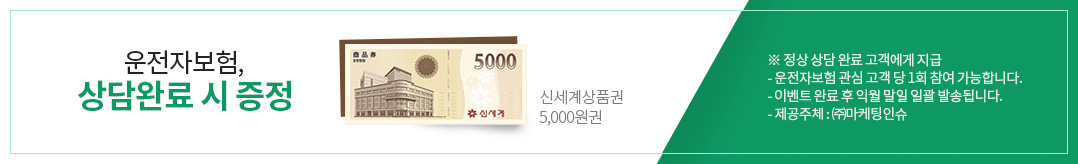
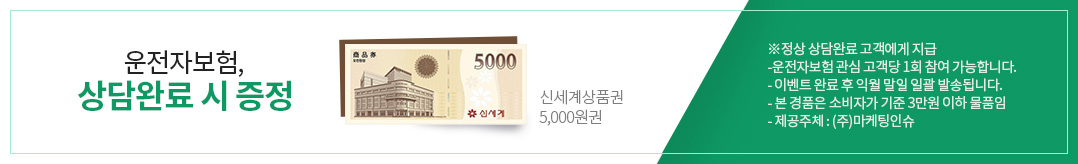
문구 수정

Changed region(s): [[0.7041, 0.2439, 0.949, 0.7927]]

diff --git a/src/views/Drive.vue b/src/views/Drive.vue
@@ -21,19 +21,15 @@
             </thead>
             <tbody>
             <tr>
-              <th rowspan="3">연만기</th>
-              <td>10년</td>
+              <th rowspan="2">연만기</th>
+              <td>3년, 5년, 10년, 15년</td>
               <td>전기납</td>
-              <td rowspan="3">만18세 ~ 80세</td>
-              <td rowspan="4">월납<br />연납</td>
-            </tr>
-            <tr>
-              <td>15년</td>
-              <td>전기납</td>
+              <td rowspan="2">만18 ~ 80세</td>
+              <td rowspan="3">월납, 연납</td>
             </tr>
             <tr>
               <td>20년</td>
-              <td>전기납, 10, 15년납</td>
+              <td>전기납, 10년납, 15년납</td>
             </tr>
             <tr>
               <th>세만기</th>
@@ -48,15 +44,7 @@
           <ul>
             <li class="list__type1">
               주1) 특별약관별로 보험기간, 가입나이 등이 상이할 수 있습니다.<br />
-              자세한 내용은 홈페이지 상품공시실의 무배당 프로미라이프 참좋은운전자보험(TM) 1908의 사업방법서 별지를 확인하여 주시기 바랍니다.
-            </li>
-            <li class="list__type1 pointAccent">
-              주2) 3년만기 자동갱신 특별약관은 3년마다 자동갱신되며, 갱신시에 적용되는 보험료는 매3년마다 재산출한 보험료를 적용합니다.<br />
-              이 경우 재산출한 보험료는 높아질 수 있습니다. (잔여 갱신시간이 3년 미만일 경우 1~2년 만기로 갱신됩니다.)<br />
-              갱신특약의 보험료 납입은 보통약관의 보험료 납입기간과관계없이 보험기간동안 전기납으로 계속 납입해야 합니다.
-            </li>
-            <li class="list__type1">
-              <em>주3) 타이어파손교체비용(수리제외,연간1회한)보장(자가용)(실손)(1년만기자동갱신) 특별약관은 1년마다 자동갱신되며 갱신시에 적용되는 보험료는 매년마다 재산출한 보험료를 적용합니다. 이경우 재산출한 보험료는 높아질 수 있습니다. 또한 (보험가입나이 + 5)세와 보통약관 종료시 보험나이 중 적은 연령까지 갱신됩니다.</em>
+              자세한 내용은 홈페이지 상품공시실의 무배당 프로미라이프 참좋은운전자보험(TM)의 사업방법서 별지를 확인하여 주시기 바랍니다.
             </li>
           </ul>
         </dd>
@@ -64,7 +52,7 @@
       <dl>
         <dt>적용이율 및 적립이율에 관한 사항</dt>
         <dd>
-          보장부분 적용이율 : 2.5%<br />
+          보장부분 적용이율 : 2.25%<br />
           적립부분 적립이율 : 이 계약의 공시이율(보장성공시이율1701)
           <p class="list__type1">최저보증이율 연복리 0.3%</p>
         </dd>
@@ -177,7 +165,7 @@
               <td>5</td>
             </tr>
             <tr>
-              <td>교통상해80%이상<br />후유장해생활자금<br />(매월7년간지급)</td>
+              <td>교통상해80%이상<br />후유장해생활자금<br />(1회한) <br class="mo-only" />(매월7년간지급)</td>
               <td class="left">보험기간중 운전자교통상해로 장해분류표상 장해지급률이 80%이상에 해당하는 장해상태가 되었을 때 1회에 한하여 가입금액을 7년 동안 매월 지급. 매월 또는 매년 지급형태의 담보의 경우 사고발생일에 확정 지급하여 드리며, 만일 사고발생일이 없을 경우에는 해당월의 마지막 영업일을 사고발생일로 함. 또한 매월 또는 매년 지급형태의 담보의 경우 보험수익자의 요청에 따라 일시지급이 가능하며, 이 경우에는 평균공시이율로 할인한 금액을 지급</td>
               <td>500</td>
             </tr>
@@ -189,21 +177,22 @@
             <tr>
               <td>자가용운전자 <br class="mo-only" />교통사고처리지원금Ⅳ<br />(실손)</td>
               <td class="left">
-                보험기간중 자가용자동차 운전중사고로 피해자(부모,배우자, 자녀 제외)에게 아래의 상해를 입힌 경우 피보험자가 형사합의금으로 지급한 금액을 피해자 1인당 가입금액내 한도로 실손보상함<br />
-                (1억원 가입기준 금액 예시)<br />
-                피해자 사망시 : 1억원(한도)<br />
+                보험기간중 자가용자동차 운전중사고로 피해자(부모,배우자, 자녀 제외)에게 아래의 상해를 입힌 경우 피보험자가 형사합의금으로 지급한 금액을 피해자 1인당 가입금액내 한도로 실손보상함<br /><br />
+                (7,000만원 가입기준 금액 예시)<br />
+                피해자 사망시 : 7,000천만원(한도)<br /><br />
+                보험기간중 일반교통사고로 피해자에게 중상해를 입혀 검찰에 의해 공소제기되거나 자동차손해배상보장법 시행령 제3조에서 정한 부상급수 1급, 2급 또는 3급에 해당하는 부상을 입힌 경우 :  7,000만원(한도)(다수가입시 비례보상)<br /><br />
                 보험기간중 중대법규위반 교통사고로 피해자가 42일(피해자 1인을 기준) 이상 치료를 요한다는 진단을 받은 경우<br />
                 > 42~69일 : 1,000만원(한도)<br />
-                > 70~139일 : 5,000만원(한도)<br />
-                > 140일이상 : 1억원(한도)<br />
-                보험기간중 일반교통사고로 피해자에게 중상해를 입혀 검찰에 의해 공소제기되거나
-                자동차손해배상보장법 시행령 제3조에서 정한 부상급수 1급, 2급 또는 3급에 해당하는 부상을 입힌 경우 : 1억원(한도)(다수가입시 비례보상)
+                > 70~139일 : 4,000만원(한도)<br />
+                > 140일이상 : 7,000만원(한도)
               </td>
               <td>7,000</td>
             </tr>
             <tr>
-              <td>자동차사고 벌금<br />(실손)</td>
-              <td class="left">보험기간중 운전중 대인사고로 벌금확정판결로 벌금을 부담한 경우 가입금액을 한도록 실손보상 (다수가입시 비례보상)</td>
+              <td>자동차사고벌금Ⅱ<br />(실손) </td>
+              <td class="left">
+                보험기간중 운전중 대인사고로 벌금확정판결로 벌금을 부담한 경우 1사고당 2천만원한도로 실손보상, 단 특정범죄 가중처벌 등에 관한 법률 제5조의13(어린이 보호구역에서 어린이치사상의 가중처벌)의 제2호에 해당되는 사고로 벌금확정판결로 벌금을 부담하는 경우 1사고당 3천만원한도로 보상(다수가입시비례보상)
+              </td>
               <td>3,000</td>
             </tr>
             <tr>
@@ -300,7 +289,7 @@
             </tr>
             <tr>
               <td>특약</td>
-              <td class="left">교통상해 80%이상 후유장해생활자금 (매월7년간지급)</td>
+              <td class="left">교통상해80%이상 후유장해생활자금 (1회한) (매월7년간지급)</td>
               <td class="right">500</td>
               <td class="right">1,330</td>
               <td class="right">1,505</td>
@@ -426,7 +415,7 @@
             </tr>
             <tr>
               <td>특약</td>
-              <td class="left">교통상해 80%이상 후유장해생활자금 (매월7년간지급)</td>
+              <td class="left">교통상해80%이상 후유장해생활자금 (1회한) (매월7년간지급)</td>
               <td class="right">500</td>
               <td class="right">515</td>
               <td class="right">620</td>
@@ -503,8 +492,8 @@
               <th rowspan="2">경과년수</th>
               <th rowspan="2">납입 보험료</th>
               <th colspan="2">최저보증이율(0.3%)</th>
-              <th colspan="2">당사 공시시율과 평균공시이율 중 낮은 이율(1.85%)</th>
-              <th colspan="2">당사공시이율 (1.85%)</th>
+              <th colspan="2">당사 공시시율과 평균공시이율 중 낮은 이율(1.75%)</th>
+              <th colspan="2">당사공시이율(1.75%)</th>
             </tr>
             <tr>
               <th>해지 환급금</th>
@@ -531,9 +520,9 @@
               <td class="right">536,400</td>
               <td class="right">67,570</td>
               <td class="right">12.6%</td>
-              <td class="right">69,670</td>
+              <td class="right">69,540</td>
               <td class="right">12.9%</td>
-              <td class="right">69,670</td>
+              <td class="right">69,540</td>
               <td class="right">12.9%</td>
             </tr>
             <tr>
@@ -541,9 +530,9 @@
               <td class="right">894,000</td>
               <td class="right">136,100</td>
               <td class="right">15.2%</td>
-              <td class="right">141,950</td>
+              <td class="right">141,570</td>
               <td class="right">15.8%</td>
-              <td class="right">141,950</td>
+              <td class="right">141,570</td>
               <td class="right">15.8%</td>
             </tr>
             <tr>
@@ -551,9 +540,9 @@
               <td class="right">1,788,000</td>
               <td class="right">334,610</td>
               <td class="right">18.7%</td>
-              <td class="right">359,200</td>
+              <td class="right">357,550</td>
               <td class="right">20.0%</td>
-              <td class="right">359,200</td>
+              <td class="right">357,550</td>
               <td class="right">20.0%</td>
             </tr>
             <tr>
@@ -561,9 +550,9 @@
               <td class="right">3,576,000</td>
               <td class="right">689,010</td>
               <td class="right">19.2%</td>
-              <td class="right">802,180</td>
+              <td class="right">794,230</td>
               <td class="right">22.4%</td>
-              <td class="right">802,180</td>
+              <td class="right">794,230</td>
               <td class="right">22.4%</td>
             </tr>
             </tbody>
@@ -576,8 +565,8 @@
             <tr>
               <th rowspan="2">경과년수<br />(납입보험료)</th>
               <th>최저보증이율(0.3%)</th>
-              <th>당사 공시시율과 평균공시이율 중 낮은 이율(1.85%)</th>
-              <th>당사공시이율 (1.85%)</th>
+              <th>당사 공시시율과 평균공시이율 중 낮은 이율(1.75%)</th>
+              <th>당사공시이율(1.75%)</th>
             </tr>
             <tr>
               <th>해지환급금<br />(환급률)</th>
@@ -593,36 +582,37 @@
             <tr>
               <td>3년<br />(536,400)</td>
               <td class="right">67,570<br />(12.6%)</td>
-              <td class="right">69,670<br />(12.9%)</td>
-              <td class="right">69,670<br />(12.9%)</td>
+              <td class="right">69,540<br />(12.9%)</td>
+              <td class="right">69,540<br />(12.9%)</td>
             </tr>
             <tr>
               <td>5년<br />(894,000)</td>
               <td class="right">136,100<br />(15.2%)</td>
-              <td class="right">141,950<br />(15.8%)</td>
-              <td class="right">141,950<br />(15.8%)</td>
+              <td class="right">141,570<br />(15.8%)</td>
+              <td class="right">141,570<br />(15.8%)</td>
             </tr>
             <tr>
               <td>10년<br />(1,788,000)</td>
               <td class="right">334,610<br />(18.7%)</td>
-              <td class="right">359,200<br />(20.0%)</td>
-              <td class="right">359,200<br />(20.0%)</td>
+              <td class="right">357,550<br />(20.0%)</td>
+              <td class="right">357,550<br />(20.0%)</td>
             </tr>
             <tr>
               <td>20년<br />(3,576,000)</td>
               <td class="right">689,010<br />(19.2%)</td>
-              <td class="right">802,180<br />(22.4%)</td>
-              <td class="right">802,180<br />(22.4%)</td>
+              <td class="right">794,230<br />(22.4%)</td>
+              <td class="right">794,230<br />(22.4%)</td>
             </tr>
             </tbody>
           </table>
         </dd>
         <dd>
           <ol class="list__type2">
-            <li class="pointAccent"><i>1)</i>20년 만기시에 환급금이 802,180원인 만기일부 환급형 입니다. 예시된 금액은 이율에 따라 변동될 수 있습니다.</li>
+            <li class="pointAccent"><i>1)</i>20년 만기시에 환급금이 794,230원인 만기일부 환급형 입니다. 예시된 금액은 이율에 따라 변동될 수 있습니다.</li>
             <li class="pointAccent"><i>2)</i>위 예상해지환급금은 적립부분 순보험료(적립부분 영업보험료에서 회사운영경비를 차감한 금액)를 해당이율로 부리, 적립한 것으로 향후 이계약의 공시이율, 계약내용변경, 보험료 실납입일자 등에 따라 변동될 수 있으며 미래의 수익을 보장하는 것은 아닙니다.
             </li>
-            <li><i>3)</i>최저보증이율(0.3%), 평균공시이율 (2019년 기준 2.5%) 및 당사 공시이율 (2020년 2월 기준 1.85%)을 기준으로 산출된 금액입니다.</li>
+            <li><i>3)</i>최저보증이율(0.3%), 평균공시이율 (2019년 기준 2.5%) 및 당사 공시이율 (2020년 4월 기준 1.75%)을 기준으로 산출된 금액입니다.
+            </li>
             <li><i>4)</i>실제 해지 및 만기시에는 금리연동형 상품의 적립부분 부리이율인 이 계약의 공시이율(보장성공시이율1701)을 적용하여 산출하므로 공시이율 변동에 따라 실제 환급금 및 환급률은 달라질 수 있습니다.</li>
             <li><i>5)</i>평균공시이율은 감독원장이 정하는 바에 따라, 전년 9월말 기준으로 직전 12개월 간 전체 보험회사 공시이율의 평균으로, 판매시점의 공시이율을 한도로 합니다.</li>
             <li><i>6)</i>공시이율은 매월 1일 회사가 정하며, 매월 1일부터 말일까지 1개월간 확정 적용합니다.</li>

diff --git a/src/components/Page.vue b/src/components/Page.vue
@@ -102,10 +102,11 @@
               <img src="@/assets/images/gift_mobile.jpg" alt="" />
             </span>
             <dl class="mo-only">
-              <dt>※ 정상 상담 완료 고객에게 지급</dt>
-              <dd>- 운전자보험 관심 고객 당 1회 참여 가능합니다.</dd>
+              <dt>※정상 상담완료 고객에게 지급</dt>
+              <dd>-운전자보험 관심 고객당 1회 참여 가능합니다.</dd>
               <dd>- 이벤트 완료 후 익월 말일 일괄 발송됩니다.</dd>
-              <dd>- 제공주체 : ㈜마케팅인슈</dd>
+              <dd>- 본 경품은 소비자가 기준 3만원 이하 물품임</dd>
+              <dd>- 제공주체 : (주)마케팅인슈</dd>
             </dl>
           </div>
           <div class="pc-only visual-call">
